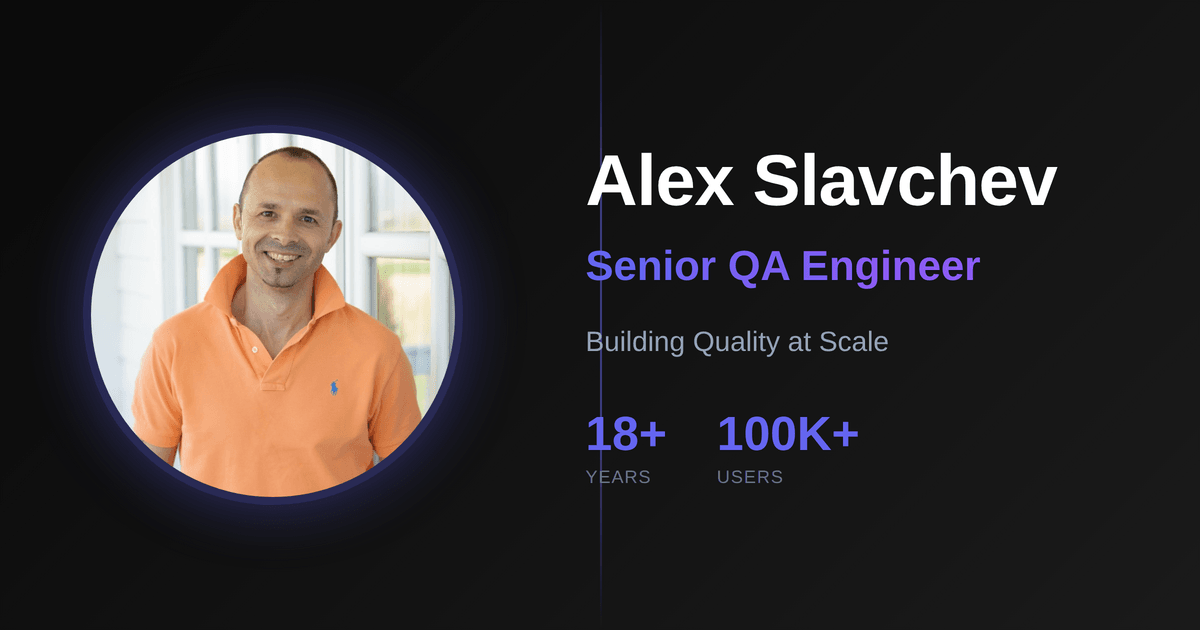
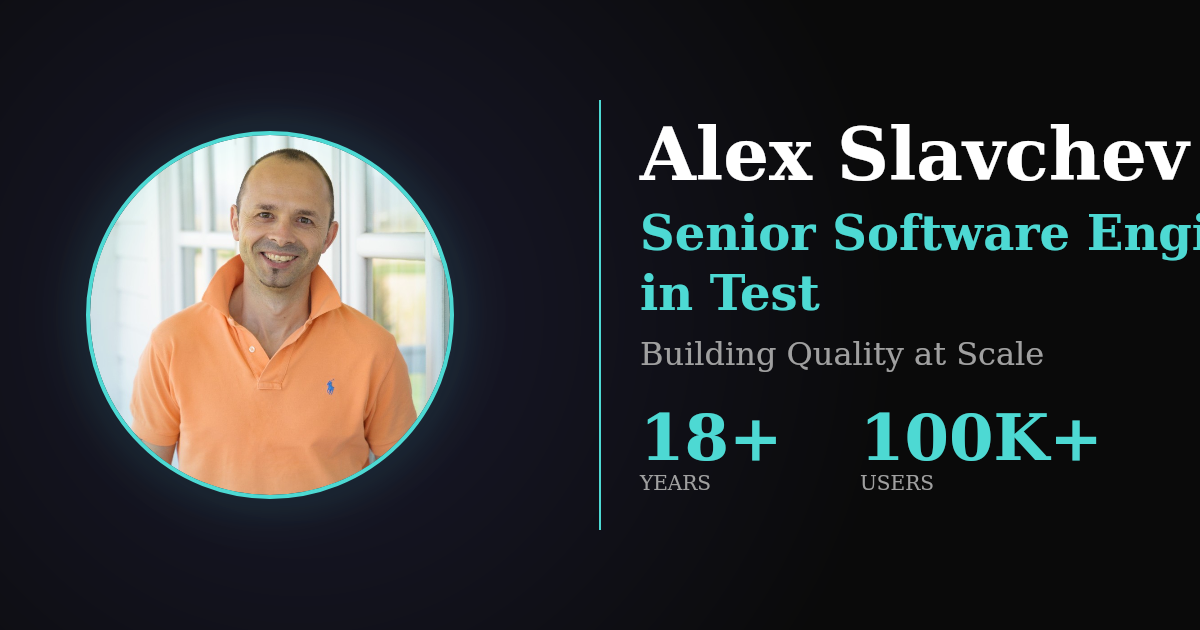
Regenerate OG image with teal branding and updated title
- Update title from 'Senior QA Engineer' to 'Senior Software Engineer in Test'
- Replace purple color with teal (#4dd9d3) for brand consistency
- Remove v0 watermark from bottom right corner
- Update stats (18+, 100K+) to teal color
- Add teal glow effect around profile image
- Add OG image generation script for future updates

diff --git a/scripts/generate-og-image.js b/scripts/generate-og-image.js
@@ -1,0 +1,108 @@
+const { createCanvas, loadImage } = require('@napi-rs/canvas');
+const fs = require('fs');
+const path = require('path');
+
+async function generateOGImage() {
+  const width = 1200;
+  const height = 630;
+  const canvas = createCanvas(width, height);
+  const ctx = canvas.getContext('2d');
+
+  // Teal color from theme (oklch 0.60 0.14 185)
+  const tealColor = '#4dd9d3';
+  const whiteColor = '#ffffff';
+  const grayColor = '#a0a0a0';
+  const darkBg = '#0a0a0a';
+
+  // Background gradient
+  const gradient = ctx.createRadialGradient(300, 315, 0, 300, 315, 600);
+  gradient.addColorStop(0, '#1a1a2e');
+  gradient.addColorStop(1, darkBg);
+  ctx.fillStyle = gradient;
+  ctx.fillRect(0, 0, width, height);
+
+  // Vertical line separator
+  ctx.strokeStyle = tealColor;
+  ctx.lineWidth = 2;
+  ctx.beginPath();
+  ctx.moveTo(600, 100);
+  ctx.lineTo(600, 530);
+  ctx.stroke();
+
+  // Load and draw profile image
+  try {
+    const profileImage = await loadImage(path.join(__dirname, '../public/professional-headshot.png'));
+    const centerX = 270;
+    const centerY = 315;
+    const radius = 180;
+
+    // Circular clip
+    ctx.save();
+    ctx.beginPath();
+    ctx.arc(centerX, centerY, radius, 0, Math.PI * 2);
+    ctx.closePath();
+    ctx.clip();
+    ctx.drawImage(profileImage, centerX - radius, centerY - radius, radius * 2, radius * 2);
+    ctx.restore();
+
+    // Glow effect
+    ctx.strokeStyle = tealColor;
+    ctx.lineWidth = 4;
+    ctx.shadowBlur = 30;
+    ctx.shadowColor = tealColor;
+    ctx.beginPath();
+    ctx.arc(centerX, centerY, radius + 2, 0, Math.PI * 2);
+    ctx.stroke();
+    ctx.shadowBlur = 0;
+  } catch (error) {
+    console.error('⚠ Could not load profile image:', error.message);
+  }
+
+  // Text content - right side
+  const startX = 640;
+
+  // Name - white
+  ctx.fillStyle = whiteColor;
+  ctx.font = 'bold 72px Arial, sans-serif';
+  ctx.fillText('Alex Slavchev', startX, 180);
+
+  // Title - TEAL (not purple!)
+  ctx.fillStyle = tealColor;
+  ctx.font = 'bold 48px Arial, sans-serif';
+  ctx.fillText('Senior Software Engineer', startX, 250);
+  ctx.fillText('in Test', startX, 310);
+
+  // Subtitle - gray
+  ctx.fillStyle = grayColor;
+  ctx.font = '32px Arial, sans-serif';
+  ctx.fillText('Building Quality at Scale', startX, 365);
+
+  // Stats - TEAL
+  ctx.fillStyle = tealColor;
+  ctx.font = 'bold 64px Arial, sans-serif';
+  ctx.fillText('18+', startX, 460);
+  ctx.fillText('100K+', startX + 220, 460);
+
+  // Stats labels - gray
+  ctx.fillStyle = grayColor;
+  ctx.font = '20px Arial, sans-serif';
+  ctx.fillText('YEARS', startX, 490);
+  ctx.fillText('USERS', startX + 220, 490);
+
+  // NO v0 WATERMARK - Jobs would NOT approve branding someone else's tool!
+
+  // Save
+  const buffer = canvas.toBuffer('image/png');
+  const outputPath = path.join(__dirname, '../public/og-image.png');
+  fs.writeFileSync(outputPath, buffer);
+
+  console.log('✅ OG image generated successfully!');
+  console.log(`📁 ${outputPath}`);
+  console.log(`📐 ${(buffer.length / 1024).toFixed(1)} KB`);
+  console.log('');
+  console.log('✓ Title: "Senior Software Engineer in Test"');
+  console.log('✓ Color: Teal (brand-aligned)');
+  console.log('✓ No v0 watermark');
+}
+
+generateOGImage().catch(console.error);
